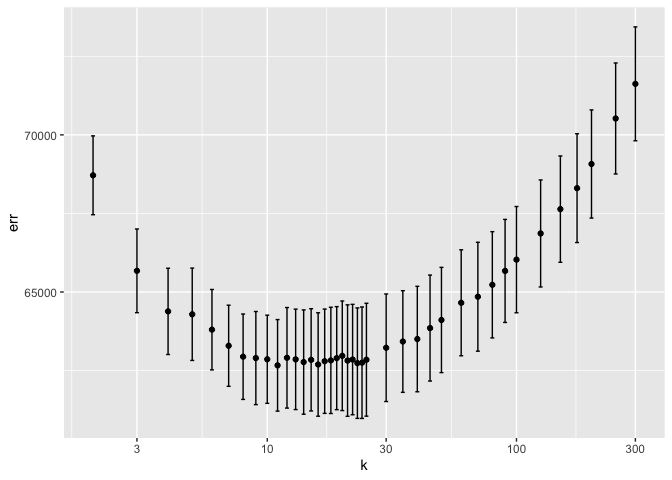
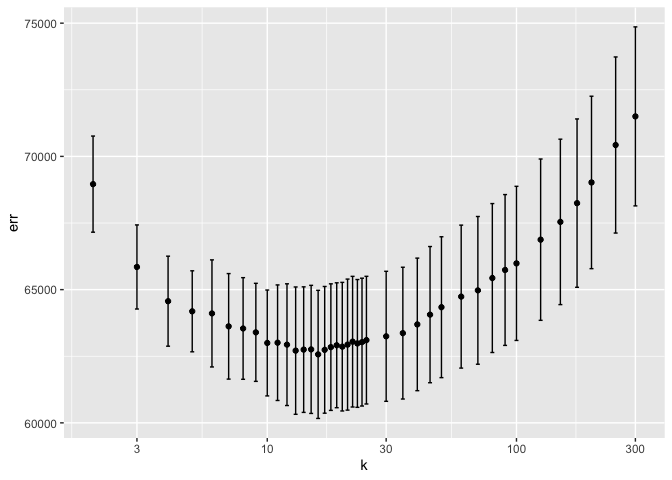
omitted unnecessary outputs

diff --git a/exercise 2/exercise_2.md b/exercise 2/exercise_2.md
@@ -19,8 +19,13 @@ them are positively correlated with the house prices.
 
 |              | k   |     rMSE |
 |:-------------|:----|---------:|
-| KNN Model    | 11  | 62665.91 |
-| Linear Model | NA  | 59059.56 |
+| KNN Model    | 16  | 62569.89 |
+| Linear Model | NA  | 58610.17 |
+
+Choose k = 16 as it has the smallest mean RMSE over 5 folds. <br>
+Standard error is smaller for the linear model.
+
+Linear regression output is below:
 
     ## 
     ## Call:
@@ -29,46 +34,36 @@ them are positively correlated with the house prices.
     ## 
     ## Residuals:
     ##     Min      1Q  Median      3Q     Max 
-    ## -223108  -34705   -4185   28413  453701 
+    ## -192597  -34121   -4418   27581  384900 
     ## 
     ## Coefficients:
     ##                          Estimate Std. Error t value Pr(>|t|)    
-    ## (Intercept)             1.782e+05  2.443e+04   7.293 5.10e-13 ***
-    ## lotSize                 9.131e+03  2.266e+03   4.029 5.90e-05 ***
-    ## age                    -3.295e+01  6.491e+01  -0.508  0.61174    
-    ## landValue               9.039e-01  5.348e-02  16.900  < 2e-16 ***
-    ## livingArea              6.289e+01  5.371e+00  11.710  < 2e-16 ***
-    ## bedrooms               -7.081e+03  2.931e+03  -2.416  0.01581 *  
-    ## fireplaces              2.058e+03  3.403e+03   0.605  0.54554    
-    ## bathrooms               5.259e+03  8.499e+03   0.619  0.53613    
-    ## rooms                  -1.852e+03  2.313e+03  -0.801  0.42335    
-    ## heatinghot water/steam -7.085e+03  4.713e+03  -1.503  0.13300    
-    ## heatingelectric        -1.331e+03  1.285e+04  -0.104  0.91750    
-    ## fuelelectric           -9.419e+03  1.259e+04  -0.748  0.45465    
-    ## fueloil                -4.768e+03  5.407e+03  -0.882  0.37807    
-    ## waterfrontNo           -1.126e+05  1.751e+04  -6.432 1.73e-10 ***
-    ## centralAirNo           -1.170e+04  3.865e+03  -3.028  0.00251 ** 
-    ## bathrooms:rooms         2.525e+03  1.071e+03   2.358  0.01853 *  
+    ## (Intercept)             1.906e+05  2.297e+04   8.296 2.56e-16 ***
+    ## lotSize                 8.630e+03  2.140e+03   4.032 5.83e-05 ***
+    ## age                    -8.606e+01  5.963e+01  -1.443 0.149159    
+    ## landValue               8.924e-01  4.888e-02  18.257  < 2e-16 ***
+    ## livingArea              6.236e+01  4.978e+00  12.526  < 2e-16 ***
+    ## bedrooms               -4.186e+03  2.723e+03  -1.537 0.124436    
+    ## fireplaces              4.122e+03  3.088e+03   1.335 0.182123    
+    ## bathrooms               2.185e+03  7.923e+03   0.276 0.782708    
+    ## rooms                  -2.816e+03  2.177e+03  -1.293 0.196156    
+    ## heatinghot water/steam -6.800e+03  4.435e+03  -1.533 0.125499    
+    ## heatingelectric        -8.522e+02  1.339e+04  -0.064 0.949258    
+    ## fuelelectric           -9.149e+03  1.322e+04  -0.692 0.488872    
+    ## fueloil                -5.636e+03  5.034e+03  -1.120 0.263071    
+    ## waterfrontNo           -1.231e+05  1.629e+04  -7.553 7.76e-14 ***
+    ## centralAirNo           -1.221e+04  3.592e+03  -3.398 0.000698 ***
+    ## bathrooms:rooms         2.699e+03  9.937e+02   2.716 0.006683 ** 
     ## ---
     ## Signif. codes:  0 '***' 0.001 '**' 0.01 '*' 0.05 '.' 0.1 ' ' 1
     ## 
-    ## Residual standard error: 58940 on 1366 degrees of freedom
-    ## Multiple R-squared:  0.6481, Adjusted R-squared:  0.6442 
-    ## F-statistic: 167.7 on 15 and 1366 DF,  p-value: < 2.2e-16
-
-Choose k = 11 as it has the smallest mean RMSE over 5 folds. <br>
-Standard error is smaller for the linear model.
+    ## Residual standard error: 54810 on 1366 degrees of freedom
+    ## Multiple R-squared:  0.6862, Adjusted R-squared:  0.6828 
+    ## F-statistic: 199.2 on 15 and 1366 DF,  p-value: < 2.2e-16
 
 ## 3) Classification and retrospective sampling
 
-![](exercise_2_files/figure-markdown_github/unnamed-chunk-5-1.png)
-
-    ##         (Intercept)            duration              amount         installment 
-    ##                0.62                1.02                1.00                1.24 
-    ##                 age         historypoor     historyterrible          purposeedu 
-    ##                0.98                0.34                0.16                1.93 
-    ## purposegoods/repair       purposenewcar      purposeusedcar       foreigngerman 
-    ##                0.92                1.92                0.23                0.42
+![](exercise_2_files/figure-markdown_github/unnamed-chunk-6-1.png)
 
 | history  | count |
 |:---------|------:|
@@ -102,15 +97,15 @@ increasing the size of the observations will help tremendously.
 
 |              | Out-of-Sample RMSE |
 |:-------------|-------------------:|
-| Baseline 1   |          3.1199718 |
-| Baseline 2   |          0.2332819 |
-| Linear Model |          0.2330376 |
+| Baseline 1   |          3.1207958 |
+| Baseline 2   |          0.2332284 |
+| Linear Model |          0.2330068 |
 
 Baseline 2 and Linear Model have similar RMSEs. They both perform much
 better than the baseline 1 model. RMSEs were calculated with 5-fold
 cross validations.
 
-![](exercise_2_files/figure-markdown_github/unnamed-chunk-8-1.png)
+![](exercise_2_files/figure-markdown_github/unnamed-chunk-9-1.png)
 
 The ROC curves are also better for baseline 2 and the linear model than
 that of baseline 1. The two look similar to each other.
@@ -118,41 +113,41 @@ that of baseline 1. The two look similar to each other.
 | model     |       TPR |       FPR |
 |:----------|----------:|----------:|
 | baseline1 | 0.0000000 | 0.0000000 |
-| baseline2 | 0.0412655 | 0.0408800 |
-| LPM       | 0.0409904 | 0.0404448 |
+| baseline2 | 0.0442916 | 0.0406624 |
+| LPM       | 0.0429161 | 0.0401064 |
 
 This table has the TPR and FPR of the models when the threshold is set
 at 0.5. We can see that the baseline 2 and LPM has higher TPRs.
 
 ### Model validation: step 1
 
-![](exercise_2_files/figure-markdown_github/unnamed-chunk-10-1.png)
+![](exercise_2_files/figure-markdown_github/unnamed-chunk-11-1.png)
 
 ### Model validation: step 2
 
 |        | hotels_predicted | hotels_actual | hotels_difference |
 |:-------|:-----------------|:--------------|:------------------|
-| Fold01 | 21               | 19            | -2                |
-| Fold02 | 22               | 21            | -1                |
-| Fold03 | 23               | 17            | -6                |
-| Fold04 | 25               | 27            | 2                 |
-| Fold05 | 20               | 20            | 0                 |
-| Fold06 | 21               | 25            | 4                 |
-| Fold07 | 16               | 16            | 0                 |
-| Fold08 | 14               | 15            | 1                 |
-| Fold09 | 20               | 20            | 0                 |
-| Fold10 | 20               | 19            | -1                |
-| Fold11 | 20               | 19            | -1                |
-| Fold12 | 18               | 20            | 2                 |
-| Fold13 | 23               | 20            | -3                |
-| Fold14 | 21               | 25            | 4                 |
-| Fold15 | 23               | 26            | 3                 |
-| Fold16 | 21               | 23            | 2                 |
-| Fold17 | 20               | 17            | -3                |
-| Fold18 | 19               | 13            | -6                |
-| Fold19 | 27               | 23            | -4                |
-| Fold20 | 17               | 17            | 0                 |
-| total  | 411              | 402           | 9                 |
+| Fold01 | 19               | 22            | 3                 |
+| Fold02 | 20               | 25            | 5                 |
+| Fold03 | 20               | 17            | -3                |
+| Fold04 | 20               | 23            | 3                 |
+| Fold05 | 20               | 16            | -4                |
+| Fold06 | 26               | 30            | 4                 |
+| Fold07 | 18               | 15            | -3                |
+| Fold08 | 25               | 23            | -2                |
+| Fold09 | 20               | 28            | 8                 |
+| Fold10 | 23               | 26            | 3                 |
+| Fold11 | 24               | 25            | 1                 |
+| Fold12 | 17               | 15            | -2                |
+| Fold13 | 20               | 18            | -2                |
+| Fold14 | 25               | 21            | -4                |
+| Fold15 | 18               | 17            | -1                |
+| Fold16 | 21               | 12            | -9                |
+| Fold17 | 19               | 21            | 2                 |
+| Fold18 | 20               | 13            | -7                |
+| Fold19 | 19               | 18            | -1                |
+| Fold20 | 19               | 17            | -2                |
+| total  | 413              | 402           | 11                |
 
-The model does the prediction pretty well. It only had 9 predictions
+The model does the prediction pretty well. It only had 11 predictions
 wrong in total out of 4999 observations.
